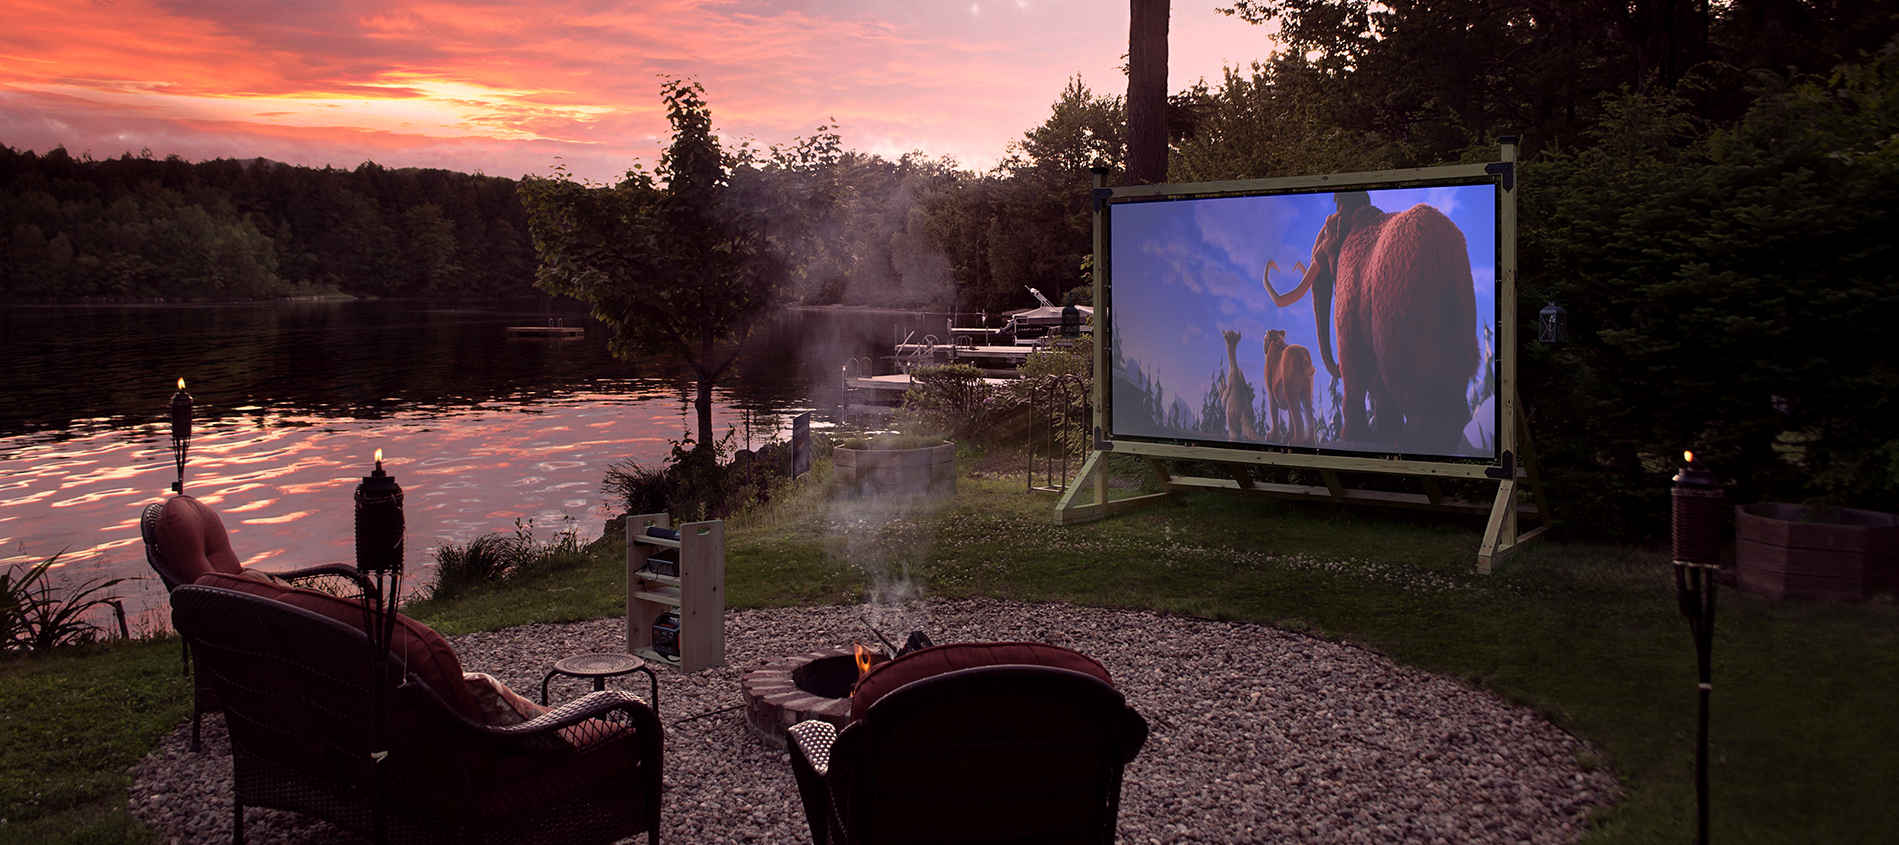
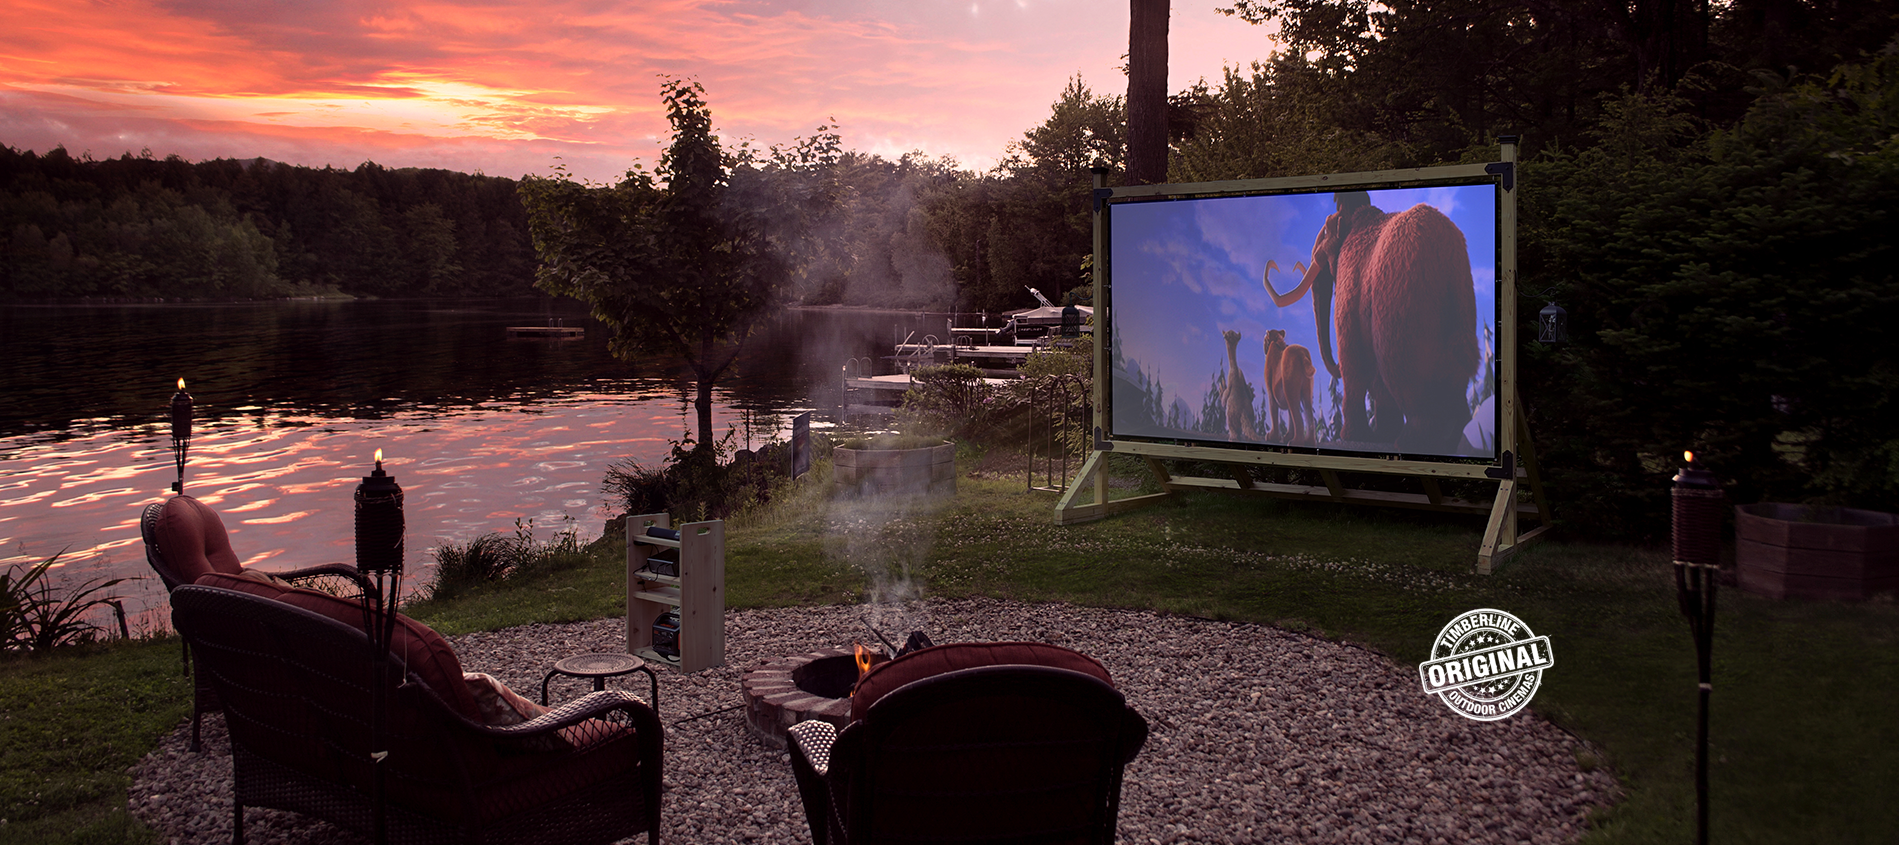
adjustments done

Changed region(s): [[0.7457, 0.7077, 0.8389, 0.8615]]

diff --git a/src/pages/index.js b/src/pages/index.js
@@ -727,7 +727,7 @@ const IndexPage = ({ location }) => {
                   onClick={onClickHandler}
                   title={label}
                   style={{ ...arrowStyles, right: 15, top: "50%" }}
-                  className="focus:outline-none w-12 lg:w-auto"
+                  className="focus:outline-none w-18 lg:w-auto"
                 >
                   <AiOutlineRight color={"#ffffff"} size={ICON_SIZE} className="max-w-full" />
                 </div>
@@ -740,7 +740,7 @@ const IndexPage = ({ location }) => {
                   onClick={onClickHandler}
                   title={label}
                   style={{ ...arrowStyles, left: 15, top: "50%" }}
-                  className="focus:outline-none w-12 lg:w-auto"
+                  className="focus:outline-none w-18 lg:w-auto"
                 >
                   <AiOutlineLeft color={"#ffffff"} size={ICON_SIZE} className="max-w-full" />
                 </button>
@@ -773,14 +773,8 @@ const IndexPage = ({ location }) => {
             </div>
             <div
               className="w-full h-full relative bg-cover bg-bottom hidden sm:flex pt-32"
-              style={{ backgroundImage: `url("${newBanner}")`, backgroundPosition: 'center', backgroundSize: 'cover' }}
+              style={{ backgroundImage: `url("${newBanner}")`, backgroundPosition: 'center right', backgroundSize: 'cover' }}
             >
-              <div>
-                <div
-                  className="absolute original-stamp"
-                  style={{ backgroundImage: `url("${originalStamp}")` }}
-                ></div>
-              </div>
               <div className=" ">
                 <div
                   className="w-full relative block"
@@ -1015,12 +1009,12 @@ const IndexPage = ({ location }) => {
                     </p>
                   </div>
                   <div className="mt-16 flex flex-wrap">
-                    <div className="w-1/2 lg:w-1/4 px-4 lg:px-6 mb-20 lg:mb-0">
-                      <div className="bg-image bg-grid-small mx-auto content-center">
-                        <img src={Feature1} />
+                    <div className="w-1/2 md:w-1/4 px-3 lg:px-5 mb-20 lg:mb-0">
+                      <div className="text-center">
+                        <img src={Feature1} className="inline-block" />
                       </div>
                       <div className="text text-right">
-                        <h3 className="text-2xl font-medium mt-3 lg:mb-1 text-center leading-wide">
+                        <h3 className="text-3xl font-medium mt-3 lg:mb-1 text-center leading-wide">
                           Strongest Frame
                         </h3>
                         <p className="text-center font-sm lg:text-xl mt-5">
@@ -1030,12 +1024,12 @@ const IndexPage = ({ location }) => {
                         </p>
                       </div>
                     </div>
-                    <div className="w-1/2 lg:w-1/4 px-4 lg:px-6 mb-20 lg:mb-0">
-                      <div className="bg-image bg-grid-small mx-auto content-center">
-                        <img src={Feature2} />
+                    <div className="w-1/2 md:w-1/4 px-3 lg:px-5 mb-20 lg:mb-0">
+                      <div className="text-center">
+                        <img src={Feature2} className="inline-block" />
                       </div>
                       <div className="text text-right">
-                        <h3 className="text-2xl font-medium mt-3 lg:mb-1 text-center leading-wide">
+                        <h3 className="text-3xl font-medium mt-3 lg:mb-1 text-center leading-wide">
                           Projector Stand
                         </h3>
                         <p className="text-center lg:text-xl font-sm mt-5">
@@ -1045,12 +1039,12 @@ const IndexPage = ({ location }) => {
                         </p>
                       </div>
                     </div>
-                    <div className="w-1/2 lg:w-1/4 px-4 lg:px-6">
-                      <div className="bg-image bg-grid-small mx-auto content-center">
-                        <img src={Feature3} />
+                    <div className="w-1/2 md:w-1/4 px-3 lg:px-5">
+                      <div className="text-center">
+                        <img src={Feature3} className="inline-block" />
                       </div>
                       <div className="text text-right">
-                        <h3 className="text-2xl font-medium mt-3 lg:mb-1  text-center leading-wide">
+                        <h3 className="text-3xl font-medium mt-3 lg:mb-1  text-center leading-wide">
                           Fastest Setup
                         </h3>
                         <p className="text-center lg:text-xl font-sm mt-5">
@@ -1060,12 +1054,12 @@ const IndexPage = ({ location }) => {
                         </p>
                       </div>
                     </div>
-                    <div className="w-1/2 lg:w-1/4 px-4 lg:px-6">
-                      <div className="bg-image bg-grid-small mx-auto content-center">
-                        <img src={Feature4} />
+                    <div className="w-1/2 md:w-1/4 px-3 lg:px-5">
+                      <div className="text-center">
+                        <img src={Feature4} className="inline-block" />
                       </div>
                       <div className="text text-right">
-                        <h3 className="text-2xl font-medium mt-3 lg:mb-1  text-center leading-wide">
+                        <h3 className="text-3xl font-medium mt-3 lg:mb-1  text-center leading-wide">
                           Year-round Use
                         </h3>
                         <p className="text-center lg:text-xl font-sm mt-5">
@@ -1116,7 +1110,7 @@ const IndexPage = ({ location }) => {
                     </p>
                   </div>
                   <div className="mt-16 text-center flex flex-wrap justify-center">
-                    <div className="w-full lg:w-1/3 px-4 lg:px-6 mb-20 lg:mb-0">
+                    <div className="w-full lg:w-1/3 max-w-lg lg:max-w-full px-4 lg:px-6 mb-20 lg:mb-0">
                       <div className="px-6 mb-8 mx-auto text-center">
                         <img src={newBobcat} className="inline-block" />
                       </div>
@@ -1124,24 +1118,24 @@ const IndexPage = ({ location }) => {
                         className="text flex flex-col items-center"
                       >
                         <div class="text-center leading-tight">
-                          <h3 className="text-orange-500 text-2xl lg:text-3xl">
+                          <h3 className="text-orange-500 text-3xl">
                             96” Jedi Bobcat
                           </h3>
-                          <h3 className="text-2xl lg:text-3xl">
+                          <h3 className="text-3xl">
                             Outdoor Gaming{" "}
                           </h3>
-                          <h3 className="text-2xl lg:text-3xl pb-2">
+                          <h3 className="text-3xl pb-2">
                             {" "}
                             Cinema
                           </h3>
                         </div>
-                        <p className="text-center pt-7.5 lg:text-xl font-xs mt-5 px-4">
+                        <p className="text-center pt-7.5 lg:text-xl mt-5 px-4">
                           Get the only outdoor gaming cinema available on the
                           market. With an 8’ ft. wide frame and cinematic gaming
                           screen, playing your favorite video games outside will
                           make you feel as if you are in real life-size action.
                         </p>
-                        <p className="text-center font-xs lg:text-xl pb-5 px-4">
+                        <p className="text-center lg:text-xl pb-5 px-4">
                           Feel the exhilaration and excitement while you game
                           away under the stars and moon. Get out of the house
                           and experience how video gaming should be.
@@ -1150,10 +1144,8 @@ const IndexPage = ({ location }) => {
                           style={{ textDecoration: "none" }}
                           to="/timberline-cinema-packages/96-jedi-bobcat-cinema"
                         >
-                          <p className="text-center text-orange-500 lg:text-lg">
-                            Learn more about the 96”<br/>
-                            Jedi Bobcat Outdoor<br/>
-                            Gaming Cinema.
+                          <p className="text-center text-orange-500 lg:text-lg max-w-sm lg:max-w-full">
+                            Learn more about the<br class="block lg:hidden" /> 96”<br class="hidden lg:block" /> Jedi Bobcat Outdoor<br class="hidden lg:block" /> Gaming Cinema.
                           </p>
                         </Link>
 
@@ -1166,7 +1158,7 @@ const IndexPage = ({ location }) => {
                         </Link>
                       </div>
                     </div>
-                    <div className="w-full lg:w-1/3 px-4 lg:px-6 mb-20 lg:mb-0">
+                    <div className="w-full lg:w-1/3 max-w-lg lg:max-w-full px-4 lg:px-6 mb-20 lg:mb-0">
                       <div className="px-6 mb-8 mx-auto text-center">
                         <img src={BearBanner} className="inline-block" />
                       </div>
@@ -1174,13 +1166,13 @@ const IndexPage = ({ location }) => {
                         className="text flex flex-col items-center"
                       >
                         <div className="text-center leading-tight">
-                          <h3 className="text-purple-1000 text-2xl lg:text-3xl">
+                          <h3 className="text-purple-1000 text-3xl">
                             120” Bella Bear
                           </h3>
-                          <h3 className="text-2xl lg:text-3xl">
+                          <h3 className="text-3xl">
                             Backyard Outdoor
                           </h3>
-                          <h3 className="text-2xl lg:text-3xl pb-2">
+                          <h3 className="text-3xl pb-2">
                             Cinema
                           </h3>
                         </div>
@@ -1196,15 +1188,13 @@ const IndexPage = ({ location }) => {
                           and make you feel like you are at the drive-in movie
                           theater while being in the comfort of your backyard.
                         </p>
-                        <p className="text-center text-purple-1000 lg:text-lg">
+                        <p className="text-center text-purple-1000 lg:text-lg max-w-sm lg:max-w-full">
                           <Link
                             style={{ textDecoration: "none" }}
                             to="/timberline-cinema-packages/120-bella-bear-cinema/"
                           >
                             {" "}
-                            Learn more about the 120”<br/> 
-                            Bella Bear Backyard<br/>
-                            Outdoor Cinema.
+                            Learn more about the<br class="block lg:hidden" /> 120”<br class="hidden lg:block" /> Bella Bear Backyard<br class="hidden lg:block" /> Outdoor Cinema.
                           </Link>
                         </p>
                         <hr className="bg-#E0E0E0 hr-grid max-w-full my-2 mx-auto"></hr>
@@ -1216,7 +1206,7 @@ const IndexPage = ({ location }) => {
                         </Link>
                       </div>
                     </div>
-                    <div className="w-full lg:w-1/3 px-4 lg:px-6">
+                    <div className="w-full lg:w-1/3 max-w-lg lg:max-w-full px-4 lg:px-6">
                       <div className="px-6 mb-8 mx-auto text-center">
                         <img src={MooseBanner} className="inline-block" />
                       </div>
@@ -1224,13 +1214,13 @@ const IndexPage = ({ location }) => {
                         className="text flex flex-col items-center"
                       >
                         <div className="text-center leading-tight">
-                          <h3 className="text-orange-500 text-2xl lg:text-3xl">
+                          <h3 className="text-orange-500 text-3xl">
                             150” Big Moose
                           </h3>
-                          <h3 className="text-2xl lg:text-3xl">
+                          <h3 className="text-3xl">
                             Premium Outdoor{" "}
                           </h3>
-                          <h3 className="text-2xl lg:text-3xl pb-2">
+                          <h3 className="text-3xl pb-2">
                             {" "}
                             Cinema
                           </h3>
@@ -1242,7 +1232,7 @@ const IndexPage = ({ location }) => {
                           ft height framing system. Simply stated - this cinema
                           is huge.
                         </p>
-                        <p className="text-center lg:min-w-0text-xl pb-5 px-4">
+                        <p className="text-center lg:text-xl pb-5 px-4">
                           Designed for homeowners and businesses who want to do
                           some serious entertaining outside for friends, family
                           and want nothing but the biggest and best.
@@ -1251,10 +1241,8 @@ const IndexPage = ({ location }) => {
                           style={{ textDecoration: "none" }}
                           to="/timberline-cinema-packages/150-big-moose-cinema"
                         >
-                          <p className="text-center text-orange-500 lg:text-lg">
-                            Learn more about the 150”<br/> 
-                            Big Moose Premium<br/>
-                            Outdoor Cinema.
+                          <p className="text-center text-orange-500 lg:text-lg max-w-sm lg:max-w-full">
+                            Learn more about the<br class="block lg:hidden" /> 150”<br class="hidden lg:block" /> Big Moose Premium<br class="hidden lg:block" /> Outdoor Cinema.
                           </p>
                         </Link>
 

diff --git a/src/components/footer.js b/src/components/footer.js
@@ -210,8 +210,8 @@ function Footer() {
       </div>
 
       <div className="mx-auto container text-center flex">
-        <div class="flex-1">
-          <div className="hidden lg:block">
+        <div class="flex-1 hidden lg:block">
+          <div>
             <Link to="/" className="cursor-pointer">
               <img src={`/cinemalogo.png`} className="h-12" />
             </Link>
@@ -231,18 +231,18 @@ function Footer() {
               loop
               muted
               playsInline
-              className="w-4/5 mx-auto margin-footer-fire"
+              className="lg:w-4/5 mx-auto margin-footer-fire"
             >
               <source src="/campfire.mp4" type="video/mp4" />
             </video>
           </div>
         </div>
-        <div class="flex-1">
-          <div className="pt-0 hidden lg:block">
-            <h5 className="text-orange-500 h3-footer-align font-bold uppercase mt-1">
-              Quick Links
-            </h5>
+        <div class="flex-1 hidden lg:block">
+          <div className="pt-0">
             <div className="flex flex-col footer-links-align">
+              <h5 className="text-left text-orange-500 font-bold uppercase mb-1">
+                Quick Links
+              </h5>
               <Link to="/about" className="flex items-center">
                 <img src="/arrowright.png" className="h-3 mr-3" />
                 About

diff --git a/src/components/layout.css b/src/components/layout.css
@@ -108,11 +108,7 @@
   margin-left: 0.313rem;
 }
 
-.hr-grid {
-  width: 16.875rem;
-  height: 0.125rem;
-  box-shadow: #e0e0e0;
-}
+
 
 .sp-button {
   text-decoration: none !important;
@@ -275,19 +271,11 @@
   border: none;
 }
 
-.homepage-carousel {
-  height: calc(100vh - 86px);
+.hr-grid {
+  width: 100%;
+  height: 0.125rem;
 }
-.carousel.carousel-slider, 
-.carousel .slider-wrapper, 
-.carousel .slider-wrapper .slider, 
-.carousel .slider-wrapper .slide {
-  height: 100%;
-}
-.carousel .slider-wrapper .responsive-video {
-  top: 50%;
-  transform: translateY(-50%);
-}
+
 
 @media screen and (min-width: 800px) {
   body {
@@ -326,5 +314,26 @@
 
   .top-banner-heading {
     font-size: 3.3rem;
+  }
+}
+@media screen and (min-width: 1200px) {
+  .homepage-carousel {
+    height: calc(100vh - 86px);
+    background: #191919;
+  }
+  .carousel.carousel-slider, 
+  .carousel .slider-wrapper, 
+  .carousel .slider-wrapper .slider, 
+  .carousel .slider-wrapper .slide {
+    height: 100%;
+  }
+  .carousel .slider-wrapper .responsive-video {
+    top: 50%;
+    transform: translateY(-50%);
+  }
+}
+@media screen and (min-width: 1024px) {
+  .hr-grid {
+    width: 16.875rem;
   }
 }

diff --git a/src/css/homepage.js b/src/css/homepage.js
@@ -25,17 +25,11 @@ export const Introduction = styled.div`
   h2 {
     display: flex;
     flex-direction: column;
-    font-size: 2rem;
+    font-size: 3rem;
     font-weight: 700;
     line-height: 1;
     color: #282828;
     margin-bottom: 1.5rem;
-  }
-  @media (min-width: 1024px) {
-    
-    h2 {
-      font-size: 3rem;
-    }
   }
 
   .text {
